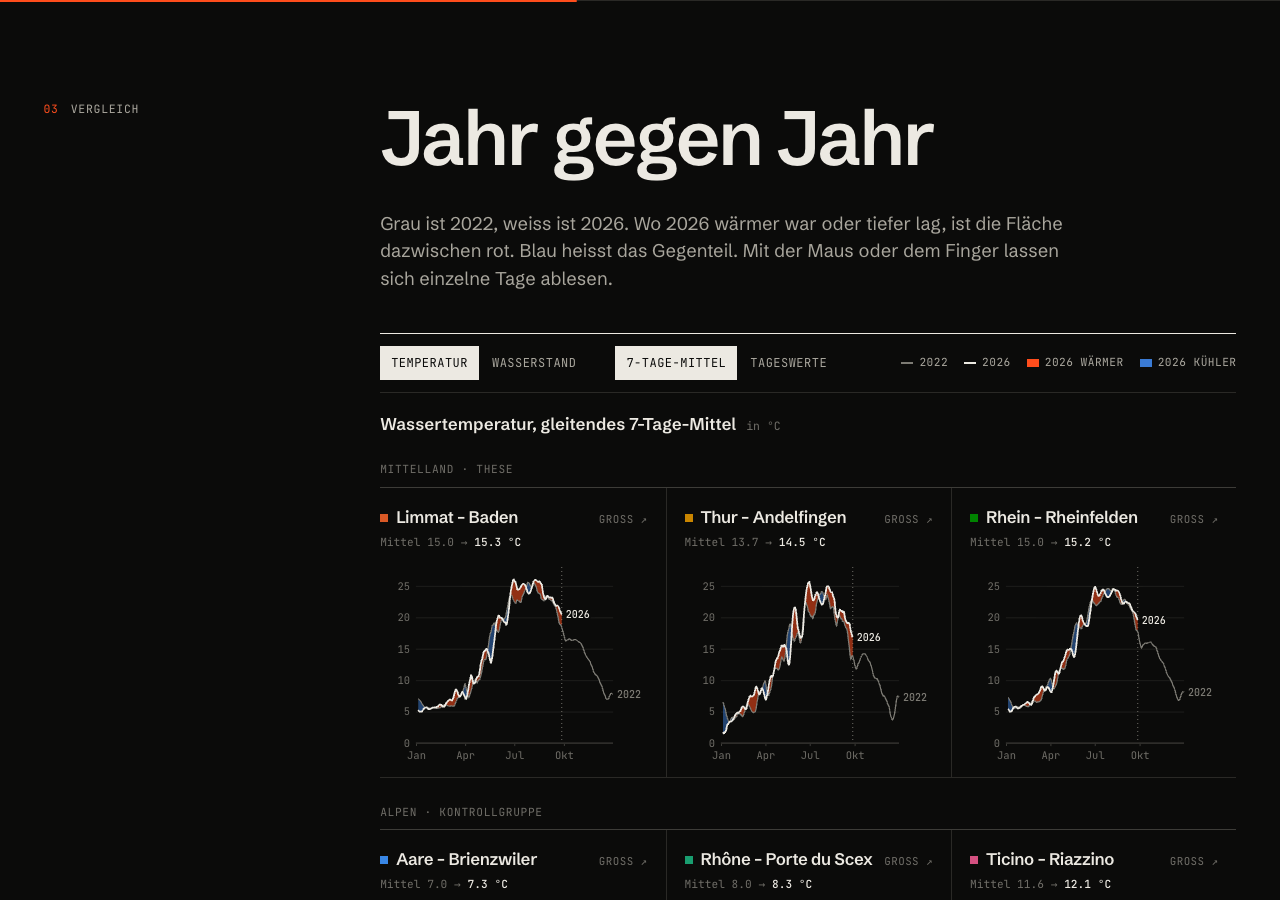
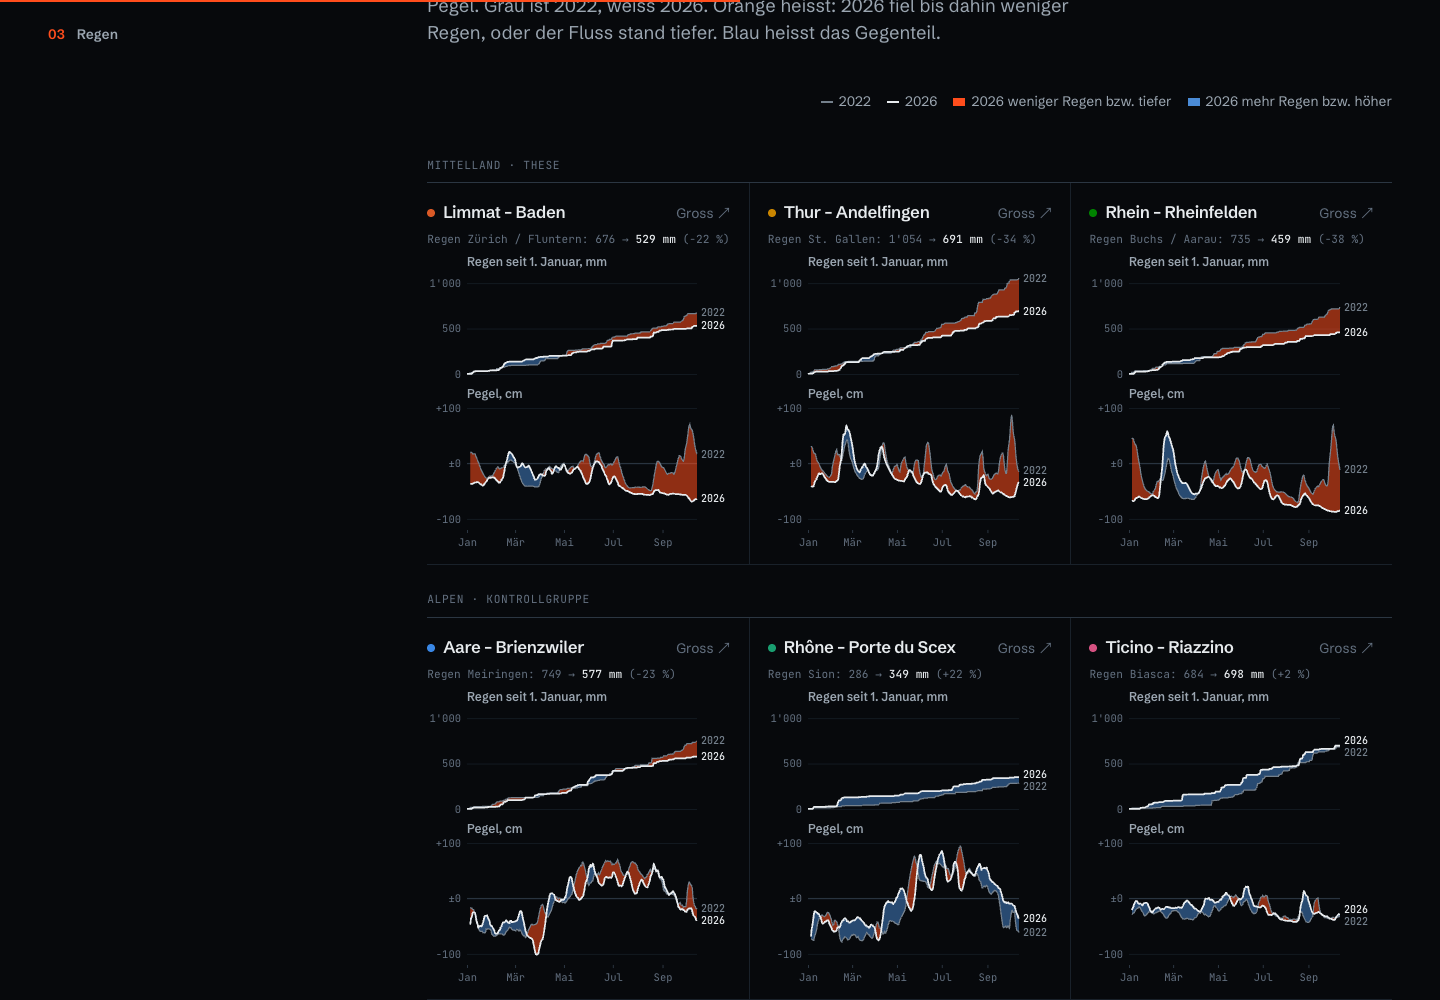
README und Doku nachgeführt, neue Screenshots, Foto des Marktstands
- README: Kurzbeschreibung, neuer Abschnitt «Aufbau», Learnings und
  Schwierigkeiten zu Regen, Seitenaufteilung und Schätzspiel
- Screenshots der aktuellen Live-Seite (Desktop und Mobile)
- Foto des Marktstands (ohne GPS- und Gerätedaten)
- docs/cronjob.md und docs/api-analyse.md um MeteoSchweiz ergänzt

diff --git a/README.md b/README.md
@@ -10,8 +10,21 @@ Die DataStory prüft die Hypothese, dass die Flüsse im Mittelland 2026 bisher w
 führten als im Hitzesommer 2022. Grundlage sind Tagesmittel von Wassertemperatur und Wasserstand an sechs
 Messstationen des BAFU sowie der tägliche Niederschlag an sechs passenden Wetterstationen von MeteoSchweiz.
 Ein PHP-ETL-Prozess lädt die Daten täglich per Cronjob in eine eigene MySQL-Datenbank; die Website liest nur
-daraus. Die Story (`index.html`) zeigt die wichtigsten Zahlen und drei Grafiken, die Datenseite (`daten.html`)
-alle Details – mit drei Alpenflüssen als Vergleichsgruppe.
+daraus. Die Story (`index.html`) führt mit wenigen Grafiken und markanten Zahlen durch die These und lässt
+Lesende mitmachen: Sie zeichnen den Temperaturverlauf selbst, schätzen pro Fluss die Regenmenge 2026 im
+Messbecher und tippen auf das Urteil, bevor die Daten die Antwort zeigen. Die Datenseite (`daten.html`) zeigt
+alle Details – Jahresvergleich und «Regen-Konto» pro Fluss, ein frei filterbarer Explorer seit 2020 und den
+Weg der Daten – mit drei Alpenflüssen als Vergleichsgruppe.
+
+## Aufbau
+
+| Teil | Dateien | Aufgabe |
+|---|---|---|
+| Extract | `etl/extract.php`, `etl/extract_meteo.php` | Tagesmittel beim BAFU (GraphQL) und Regen bei MeteoSchweiz (CSV) abholen |
+| Transform | `etl/transform.php`, `etl/transform_meteo.php` | jeden Wert prüfen, unplausible verwerfen und zählen, Datum in Schweizer Zeit |
+| Load | `etl/load.php`, `etl/schema.sql` | in sechs MySQL-Tabellen speichern, täglich per Cronjob, letzte 60 Tage neu |
+| Unload | `unload.php` | JSON nach Datenvertrag liefern, mit geprüften Filtern in der URL |
+| Story | `index.html`, `daten.html`, `script.js`, `style.css` | Grafiken mit D3.js, Text und Zahlen aus den Daten berechnet |
 
 ## Learnings
 
@@ -28,7 +41,14 @@ alle Details – mit drei Alpenflüssen als Vergleichsgruppe.
 - **Sicherheit von Anfang an:** Zugangsdaten gehören in eine eigene, per `.gitignore` ausgeschlossene Datei;
   Datenbankabfragen laufen nur über Prepared Statements.
 - **Datenjournalistisch sauber arbeiten:** Vergleiche fair machen (gleicher Zeitraum pro Jahr, nur vollständige
-  Jahre für Monatsmittel) und offen sagen, was die Daten *nicht* zeigen.
+  Jahre für Monatsmittel) und offen sagen, was die Daten *nicht* zeigen – etwa, dass weniger Regen eine
+  naheliegende, aber nicht die einzige Erklärung für tiefe Pegel ist.
+- **Weniger ist mehr:** Eine kurze Story mit drei Grafiken liest sich besser als alles auf einer Seite. Die
+  Details gehören auf eine eigene Datenseite für alle, die tiefer graben wollen.
+- **Erst raten, dann zeigen:** Wer zuerst selbst schätzt, merkt sich das Ergebnis besser. Dafür darf die Seite
+  die Lösung nicht vorher verraten – weder im Titel noch in einer Kennzahl weiter oben.
+- **Beide Jahre gleichzeitig zeigen:** Ein Umschalter zwischen 2022 und 2026 macht den Vergleich schwer. Zwei
+  Linien übereinander mit eingefärbter Differenz zeigen ihn auf einen Blick.
 
 ## Schwierigkeiten
 
@@ -46,6 +66,13 @@ alle Details – mit drei Alpenflüssen als Vergleichsgruppe.
   gespeichert und auf der Website ausgewiesen.
 - **Verdächtige Messwerte:** Bei Brienzwiler meldet die API im März 2026 drei Tage lang exakt 0.00 °C. Diese
   ungeprüften Werte werden als vermuteter Sensorausfall verworfen und erscheinen als Lücke.
+- **Regentag und Flusstag:** MeteoSchweiz zählt einen Regentag von Mitternacht bis Mitternacht Weltzeit, das
+  BAFU rechnet in Schweizer Zeit. Die eine Stunde Verschiebung ist für Wochen- und Jahressummen vernachlässigbar
+  und auf der Website offen ausgewiesen.
+- **Eine Wetterstation pro Fluss:** Eine Station misst den Regen an einem Ort, nicht im ganzen Einzugsgebiet.
+  Beim Rhein, dessen Wasser aus der halben Schweiz kommt, ist das nur eine Annäherung.
+- **Spoiler im eigenen Text:** Die Regen-Kennzahl weiter oben verriet das Ergebnis des Schätzspiels. Sie wurde
+  gestrichen; Titel, Einleitung und Grafik erscheinen pro Fluss erst nach dem Auflösen.
 - **Unvollständiges laufendes Jahr:** Für faire Jahresvergleiche wird jedes Jahr nur vom 1. Januar bis zum
   gleichen Stichtag gemittelt.
 - **PHP-Eigenheit:** Numerische Array-Keys wie `'2019'` werden automatisch zu Zahlen – die Stationsnummer
@@ -63,7 +90,7 @@ alle Details – mit drei Alpenflüssen als Vergleichsgruppe.
   https://opendatadocs.meteoswiss.ch/a-data-groundbased/a1-automatic-weather-stations
 - **BAFU-API und Dokumentation** (Filter, Pagination, Ratenbegrenzung, Lizenz):
   https://api.data-platform.cloud.bafu.admin.ch/ · GraphQL-Endpunkt https://data.bafu.admin.ch/api
-- **Lizenz der Daten:** «Freie Nutzung. Quellenangabe ist Pflicht.» (opendata.swiss)
+- **Lizenz der Daten:** «Freie Nutzung. Quellenangabe ist Pflicht.» (opendata.swiss, MeteoSchweiz Open Data)
 - **D3.js v7** für die Visualisierungen: https://d3js.org/
 - **Schriften** (Google Fonts): Schibsted Grotesk, Instrument Serif, JetBrains Mono – https://fonts.google.com/
 - **PHP-Handbuch, PDO:** https://www.php.net/manual/de/book.pdo.php
@@ -78,17 +105,19 @@ alle Details – mit drei Alpenflüssen als Vergleichsgruppe.
 
 ### Desktop
 
-![Einstieg mit Hypothese und Temperatur-Streifen in der Desktop-Ansicht](docs/screenshots/desktop.png)
+![Einstieg mit Titel, These und der Thur als Fluss, gefärbt nach Wassertemperatur 2022 und 2026](docs/screenshots/desktop.png)
 
-![Jahresvergleich 2022 und 2026 pro Fluss mit eingefärbter Differenz in der Desktop-Ansicht](docs/screenshots/desktop-grafik.png)
+![Schätzspiel: Regen 2022 im Messbecher, den Becher für 2026 füllt man selbst, die Grafik bleibt bis zum Auflösen verschwommen](docs/screenshots/desktop-schaetzen.png)
+
+![Datenseite: Regen seit 1. Januar und Pegel für alle sechs Flüsse, 2022 und 2026 übereinander](docs/screenshots/desktop-grafik.png)
 
 ### Mobile
 
 <p>
-  <img src="docs/screenshots/mobile.png" alt="Einstieg mit Hypothese und Temperatur-Streifen in der Mobile-Ansicht" width="300">
-  <img src="docs/screenshots/mobile-grafik.png" alt="Urteil zur Hypothese in der Mobile-Ansicht" width="300">
+  <img src="docs/screenshots/mobile.png" alt="Einstieg mit Titel, These und der Thur als Fluss in der Mobile-Ansicht" width="300">
+  <img src="docs/screenshots/mobile-grafik.png" alt="Schätzspiel mit Messbechern in der Mobile-Ansicht" width="300">
 </p>
 
 ## Foto des Marktstands
 
-Folgt.
+![Marktstand: das gemalte Plakat mit Fluss, Fischen und den ETL-Schritten, daneben der Laptop mit der Website](docs/marktstand.jpg)

diff --git a/docs/cronjob.md b/docs/cronjob.md
@@ -1,7 +1,8 @@
 # Cronjob für den automatischen Import
 
 `etl/load.php` startet die ganze Kette (Extract → Transform → Load) und läuft **einmal täglich**.
-Tagesmittel entstehen einmal pro Tag; ein häufigerer Import bringt keine neuen Werte, belastet aber die BAFU-API.
+Es holt zuerst die Flussdaten beim BAFU, danach den Regen bei MeteoSchweiz – ein einziger Cronjob genügt.
+Tagesmittel entstehen einmal pro Tag; ein häufigerer Import bringt keine neuen Werte, belastet aber die Quellen.
 
 Empfohlene Zeit: **06:30 Uhr**. Das Tagesmittel des Vortags ist dann sicher verfügbar.
 
@@ -30,8 +31,11 @@ Ohne gültiges Token antwortet `load.php` mit HTTP 403. Ist `$etlToken` leer, is
 ## Von Hand aufrufen
 
 Dieselbe URL im Browser öffnen. `load.php` zeigt dann als Text, was passiert ist:
-wie viele Zeilen die API geliefert hat, wie viele neu, geändert oder unverändert sind, und den jüngsten Messwert
-pro Fluss.
+wie viele Zeilen die API geliefert hat, wie viele neu, geändert oder unverändert sind, den jüngsten Messwert
+pro Fluss und den jüngsten Regenwert pro Wetterstation.
+
+Ist noch kein Regen gespeichert (z.B. direkt nach dem Anlegen der Tabellen mit `etl/schema.sql`), holt der
+nächste Import automatisch alles ab 2020. Das dauert beim ersten Mal rund eine halbe Minute länger.
 
 Alles ab 2020 neu laden (z.B. nach einer Änderung an `transform.php`):
 
@@ -44,6 +48,8 @@ https://DEINE-DOMAIN/etl/load.php?token=DEIN-TOKEN&full=1
 | Situation | Verhalten |
 |---|---|
 | BAFU-API nicht erreichbar | 3 Wiederholungen (2 s, 4 s, 8 s), dann Abbruch. Der Lauf steht als `failed` in `import_runs`, **die gespeicherten Daten bleiben unverändert**, die Website zeigt sie weiter. |
+| MeteoSchweiz nicht erreichbar | Die Flussdaten sind schon gespeichert. Der Regen-Lauf steht als `failed` in `import_runs`, der nächste Lauf holt ihn nach. |
+| Einzelne Regen-Datei fehlerhaft | Die übrigen Stationen werden trotzdem geladen, Regen-Lauf = `partial`. |
 | Einzelnes Zeitfenster fehlerhaft | Die übrigen Fenster werden trotzdem geladen, Lauf = `partial`. Der nächste Lauf holt die Lücke nach. |
 | Zu viele Zeilen für ein Fenster | Das Fenster wird automatisch halbiert. |
 | Datenbank nicht erreichbar | Abbruch vor dem Abruf der API mit der Meldung «Verbindung fehlgeschlagen». |

diff --git a/docs/api-analyse.md b/docs/api-analyse.md
@@ -136,4 +136,32 @@ und Abflusstypen vertreten und für die W und WT seit 2020 lückenlos vorliegen 
 | 2068 | Ticino – Riazzino | Tessingebiet | Alpensüdseite |
 | 2091 | Rhein – Rheinfelden | Rheingebiet | grosser Fluss unterhalb der Aaremündung |
 
-Die Auswahl ist im Code als Konfiguration hinterlegt (`STATIONS` in `etl/extract.php`) und kann dort geändert werden.
+Die Auswahl ist im Code als Konfiguration hinterlegt (`$stationNos` in `etl/extract.php`) und kann dort geändert werden.
+
+## 9. Zweite Quelle: Niederschlag von MeteoSchweiz
+
+Um tiefe Pegel einordnen zu können, kommt der tägliche Niederschlag dazu. MeteoSchweiz bietet dafür keine
+Abfrage-API, sondern Open-Data-Dateien pro Wetterstation (SwissMetNet), auffindbar über die STAC-API von
+data.geo.admin.ch (Collection `ch.meteoschweiz.ogd-smn`).
+
+| Punkt | Befund |
+|---|---|
+| Format | CSV, Trennzeichen `;`, Kodierung ISO-8859-1 (Latin-1), über 40 Spalten |
+| Dateien pro Station | `…_d_recent.csv` (laufendes Jahr, täglich ergänzt) und `…_d_historical.csv` (bis Ende Vorjahr, ab Messbeginn, mehrere MB) |
+| Verwendete Spalte | `rka150d0` = Niederschlag, Tagessumme 0 bis 0 Uhr UTC, in mm (`rre150d0` wäre 6 bis 6 Uhr UTC) |
+| Datum | `reference_timestamp` im Format `21.09.2026 00:00` |
+| Lücken | leeres Feld = nicht gemessen; wird verworfen, nicht als 0 mm gespeichert |
+| Lizenz | Open Government Data, Quellenangabe Pflicht |
+
+Zu jeder Flussstation gehört eine Wetterstation in ihrem Gebiet:
+
+| Fluss (BAFU-Nr.) | Wetterstation | Bemerkung |
+|---|---|---|
+| Limmat (2243) | SMA Zürich / Fluntern | |
+| Thur (2044) | STG St. Gallen | |
+| Rhein (2091) | BUS Buchs / Aarau | Annäherung: das Einzugsgebiet umfasst die halbe Schweiz |
+| Aare (2019) | MER Meiringen | |
+| Rhône (2009) | SIO Sion | |
+| Ticino (2068) | BIA Biasca | |
+
+Die Zuordnung steht in `etl/extract_meteo.php` (`$weatherStations`).
